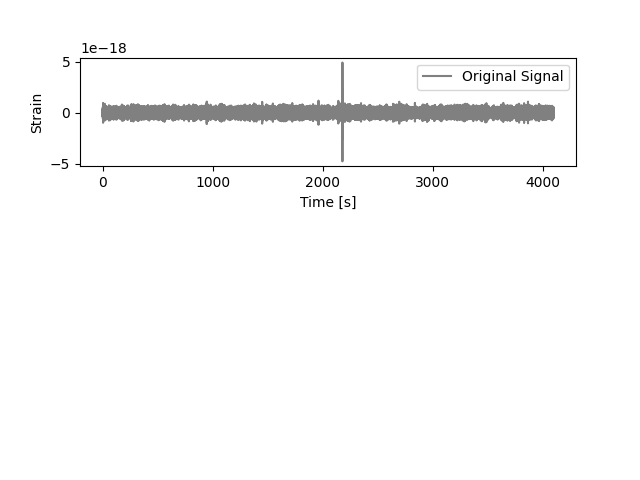
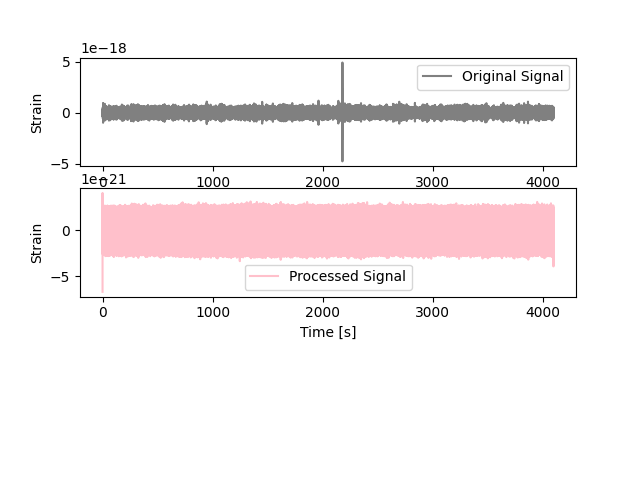
added interpolation to fix results of bandpass_filter, added new subplot, created main() in main.py

diff --git a/src/signal_processing.py b/src/signal_processing.py
@@ -1,7 +1,9 @@
+import numpy as np
+import pandas as pd
 from scipy.signal import butter, filtfilt
 import config as cfg
 
-def bandpass_filter(data, lowcut, highcut, fs, order=4):
+def bandpass_filter(data, lowcut, highcut, fs, order=2):
     """
     Apply bandpass filter.
 
@@ -24,9 +26,8 @@ def bandpass_filter(data, lowcut, highcut, fs, order=4):
         Filtered data.
     """
     nyquist_rate = 0.5 * fs
-    low = lowcut / nyquist_rate
-    high = highcut / nyquist_rate
-    numerator, denominator = butter(order, [low, high], fs=fs, btype='band')
+    low, high = lowcut / nyquist_rate, highcut / nyquist_rate
+    numerator, denominator = butter(order, [low, high], btype='band', analog=False)
     return filtfilt(numerator, denominator, data)
 
 def compute_psd(data, fs):
@@ -82,5 +83,7 @@ def process_dataframe(df):
     df : pd.DataFrame
         Data frame with added column corresponding to processed data.
     """
-    df["processed"] = bandpass_filter(df["strain"].values, 1, 1000, fs=cfg.FS, order=4)
+    df["strain"] = df["strain"].interpolate(method="linear", limit_direction="both")
+    df["processed"] = bandpass_filter(df["strain"].values, 35, 350, fs=cfg.FS, order=4)
+
     return df

diff --git a/src/plot.py b/src/plot.py
@@ -18,6 +18,11 @@ def plot_dataframe(df):
     plt.xlabel("Time [s]")
     plt.legend()
 
-    plt.show()
+    plt.subplot(3, 1, 2)
+    plt.plot(df["time"], df["processed"], color='pink', label="Processed Signal")
+    plt.ylabel("Strain")
+    plt.xlabel("Time [s]")
+    plt.legend()
+    #plt.show()
 
     plt.savefig(cfg.PLOTS_PATH)

diff --git a/src/main.py b/src/main.py
@@ -9,6 +9,7 @@ def main():
     """
     df = download_main()
     df = process_dataframe(df)
+    print(df.head())
     plot_dataframe(df)
 
 if __name__ == "__main__":
